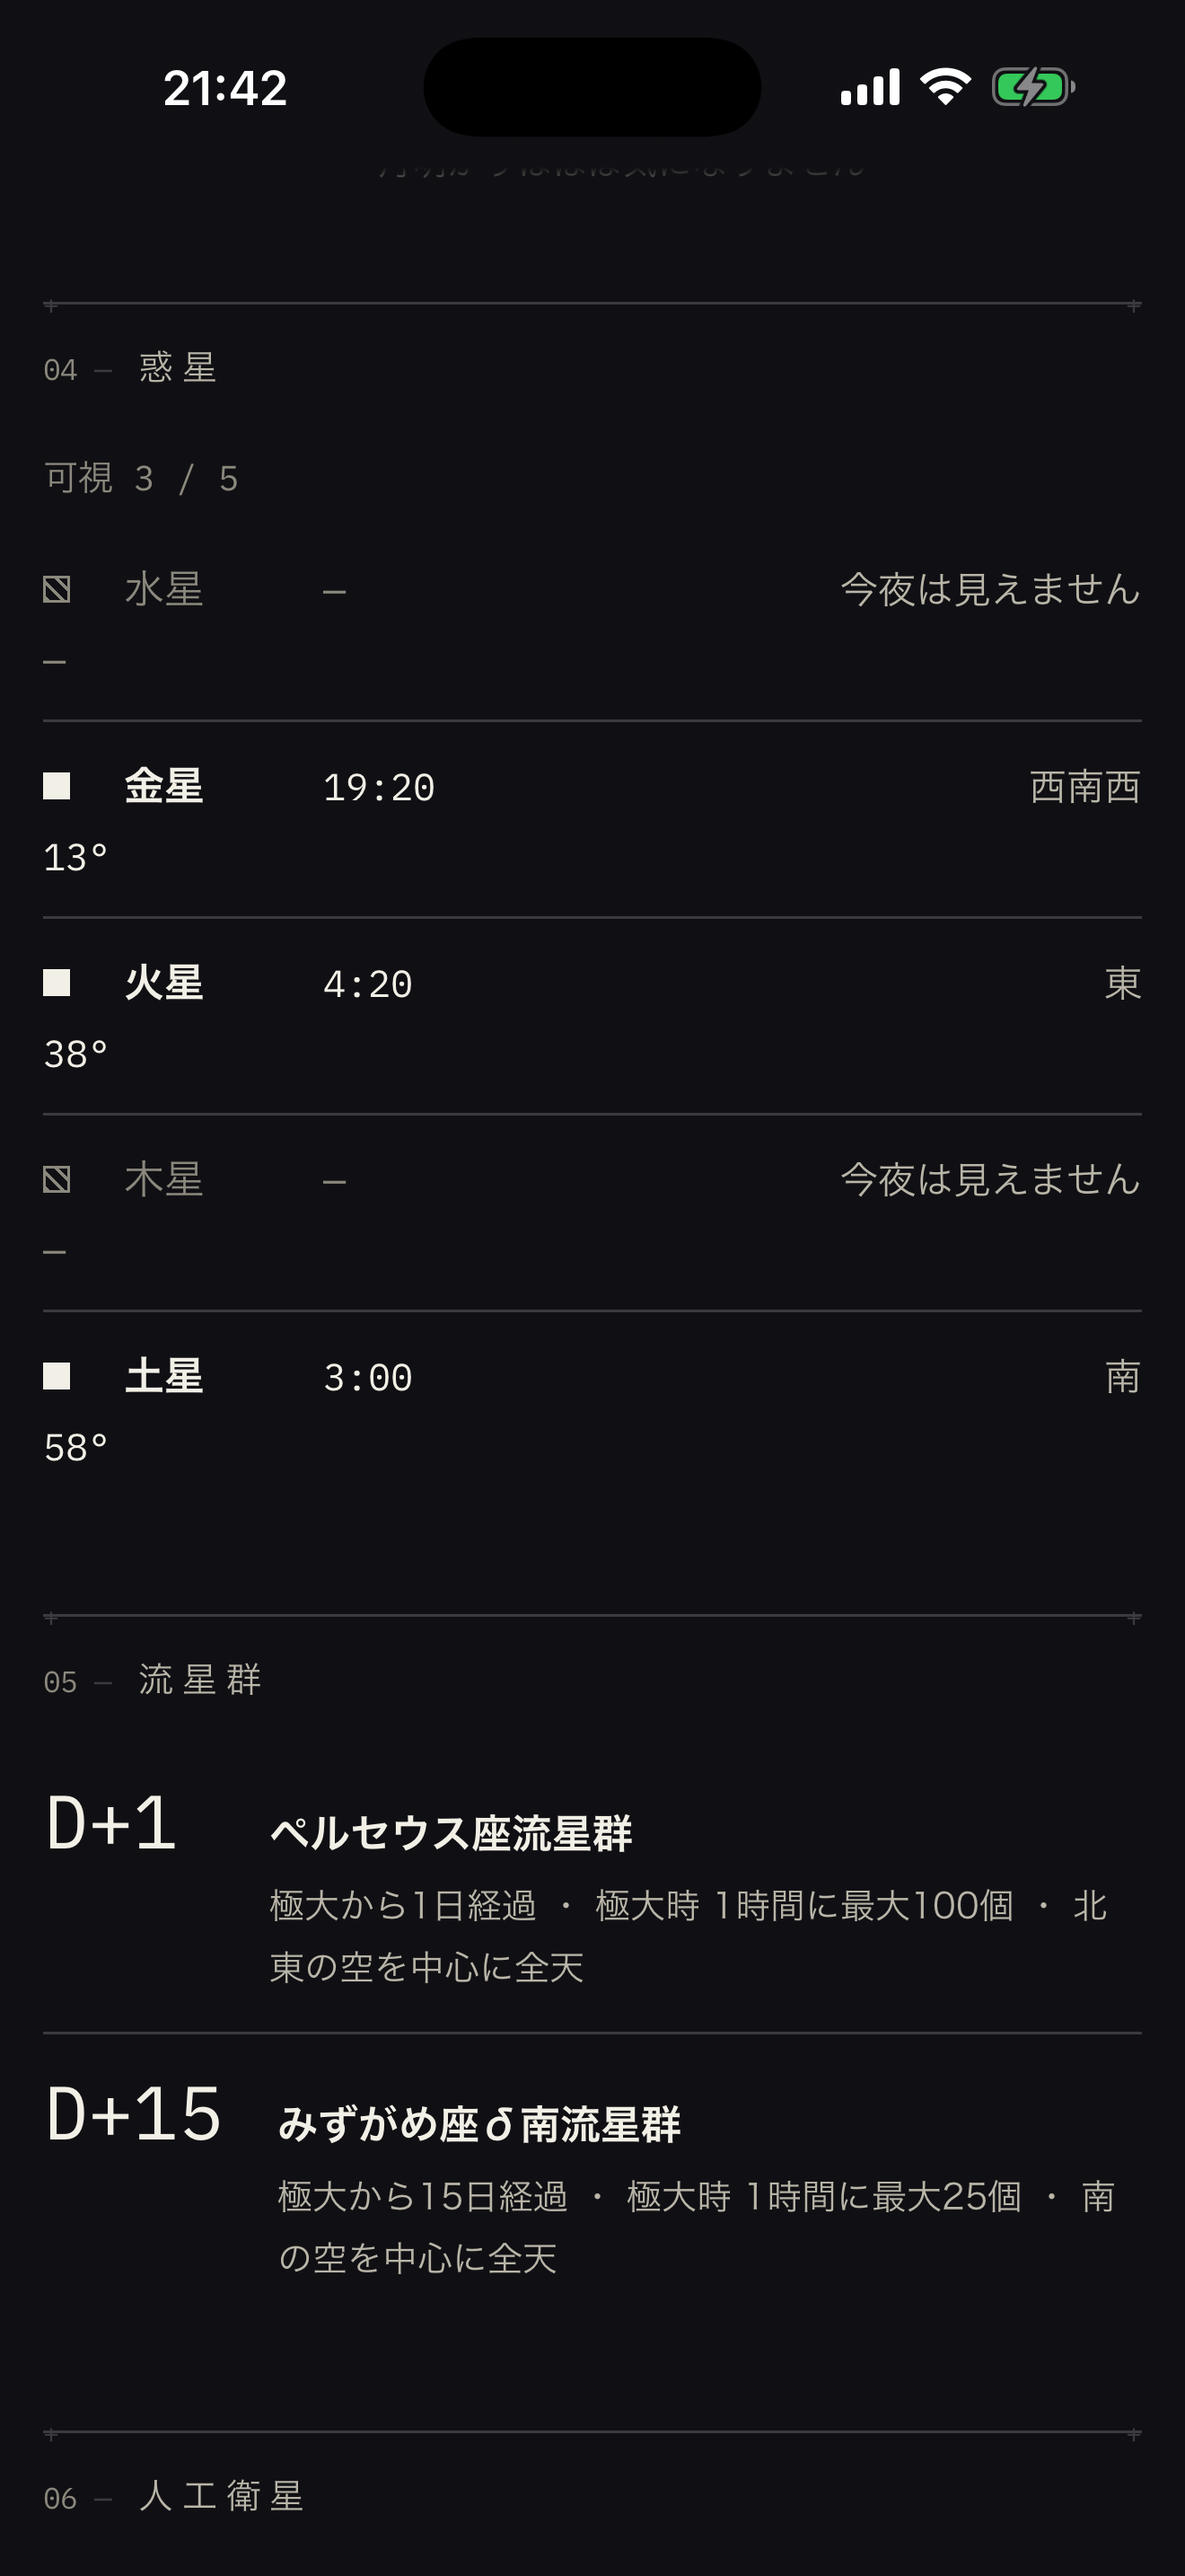
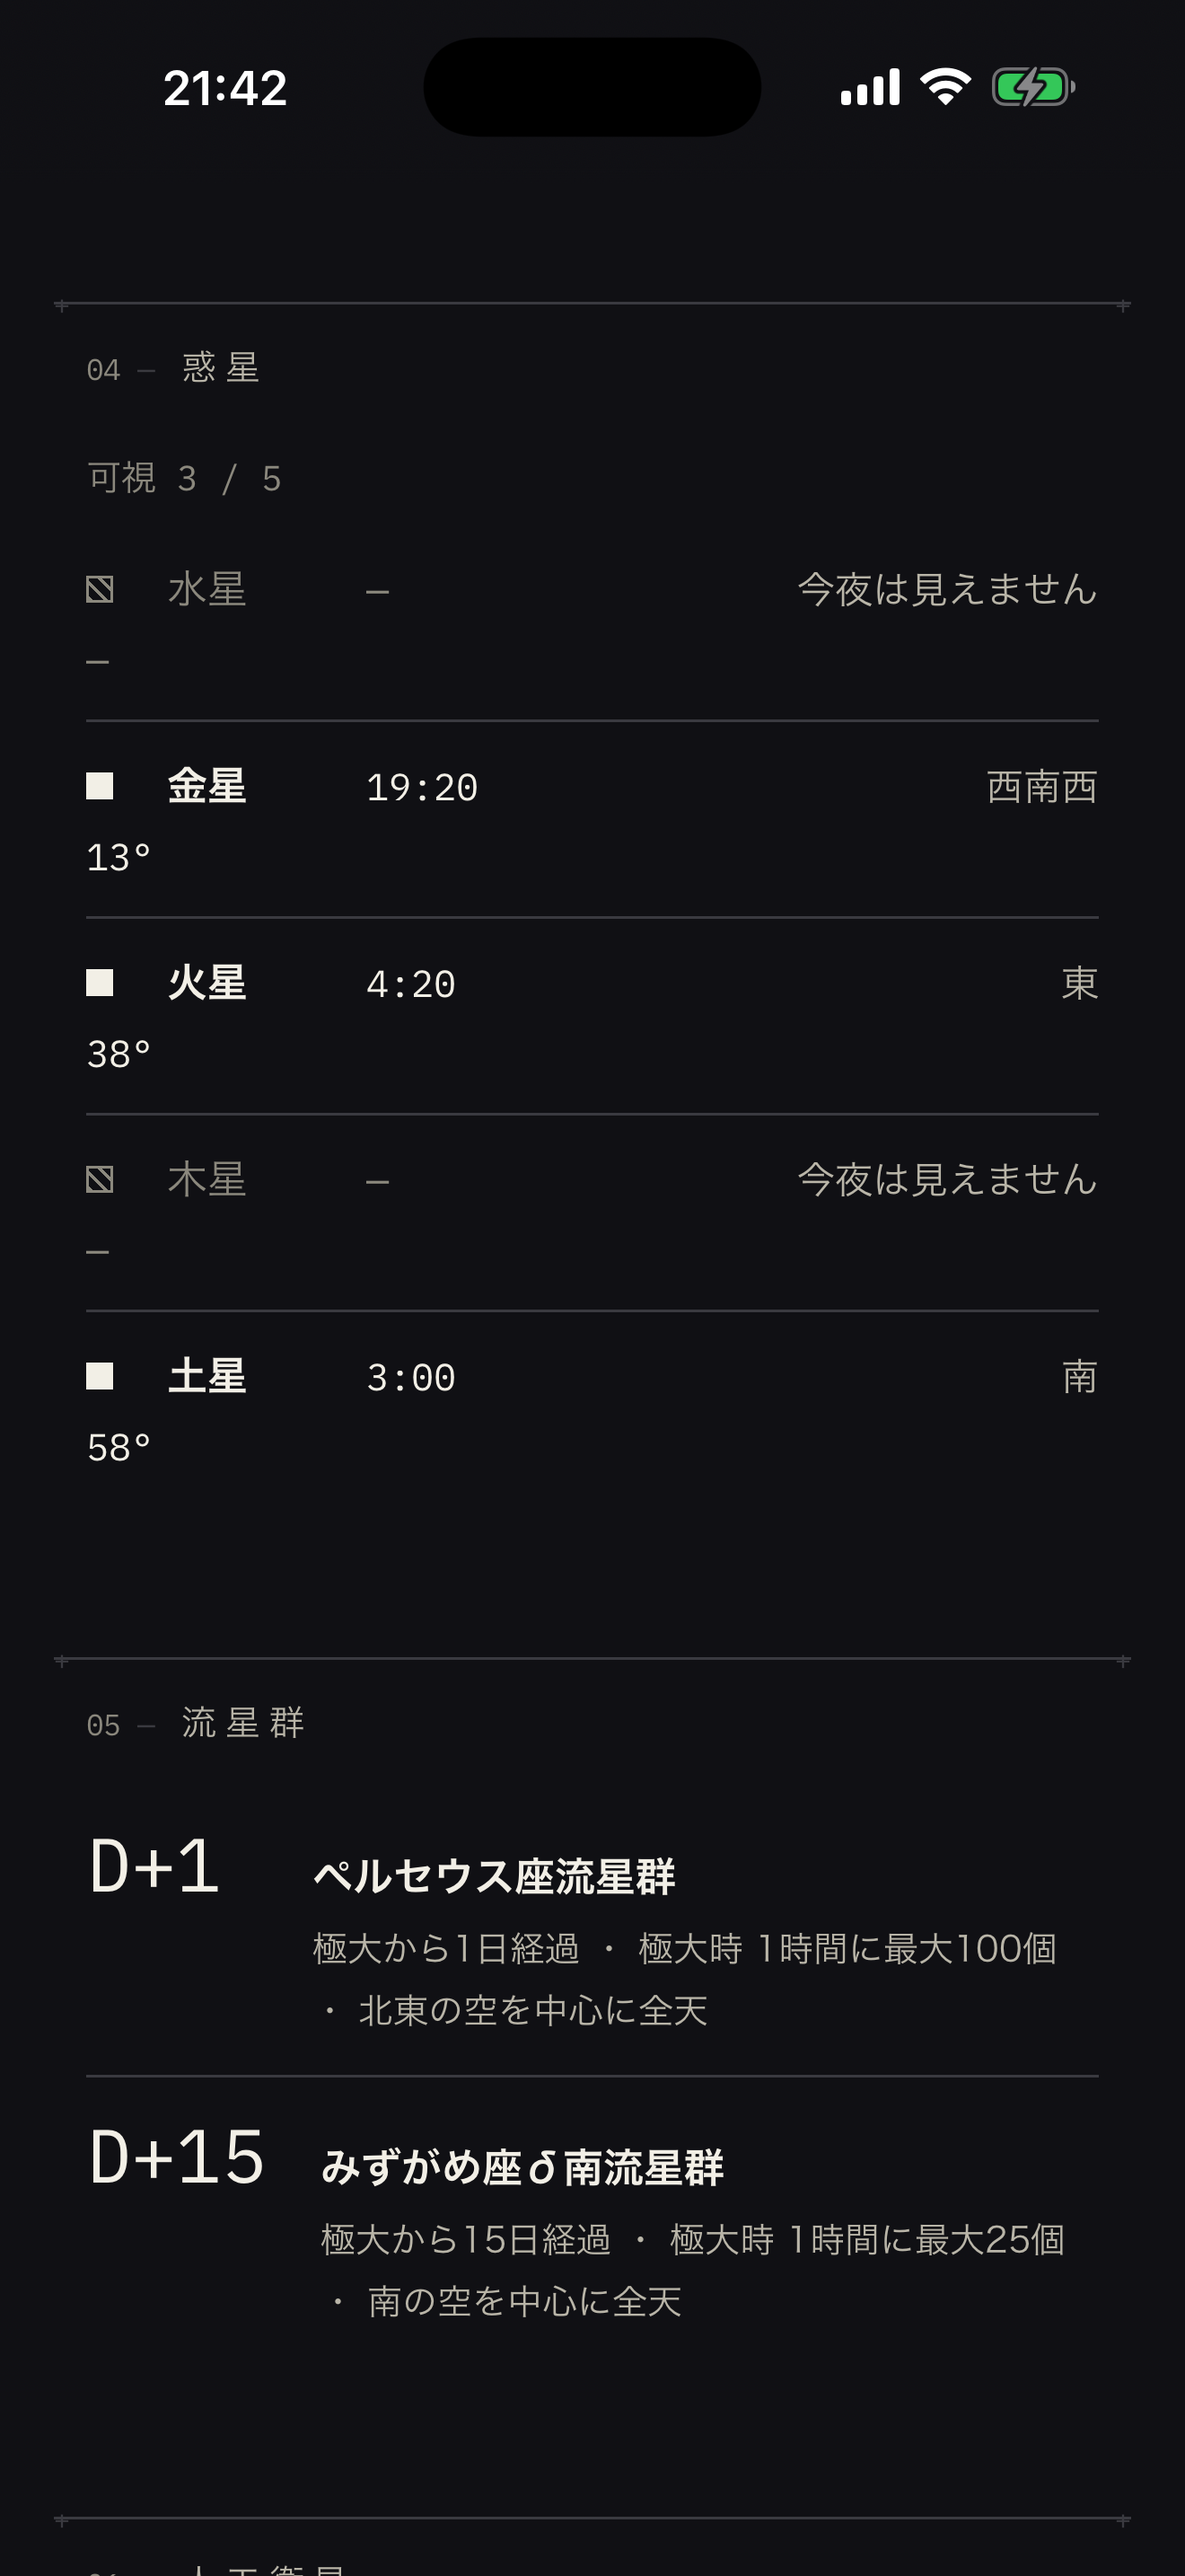
Inset mobile cards and refresh Build 4 assets

diff --git a/src/index.css b/src/index.css
@@ -974,9 +974,18 @@ select.city-select option {
   #root {
     padding:
       max(16px, calc(env(safe-area-inset-top, 0px) + 12px))
-      max(16px, env(safe-area-inset-right))
+      max(20px, calc(env(safe-area-inset-right, 0px) + 8px))
       max(40px, env(safe-area-inset-bottom))
-      max(16px, env(safe-area-inset-left));
+      max(20px, calc(env(safe-area-inset-left, 0px) + 8px));
+  }
+  .masthead,
+  .section,
+  .footer {
+    padding-left: 12px;
+    padding-right: 12px;
+  }
+  .masthead {
+    padding-bottom: 12px;
   }
   .native-toolbar {
     align-items: center;
@@ -991,7 +1000,11 @@ select.city-select option {
     grid-template-columns: 1fr;
     margin-top: 40px;
     padding-top: 12px;
+    padding-bottom: 16px;
     row-gap: 12px;
+  }
+  .footer {
+    padding-bottom: 12px;
   }
   .section-side {
     flex-direction: row;

diff --git a/src/lib/__tests__/nightMap.test.ts b/src/lib/__tests__/nightMap.test.ts
@@ -47,4 +47,14 @@ describe('projectJapanCoordinate', () => {
       expect(point.y).toBeLessThan(JAPAN_MAP_VIEWBOX.height)
     }
   })
+
+  it('大阪ラベルを広島のマーカーと重ならない右下へ配置する', () => {
+    const osaka = NIGHT_MAP_POINTS.find((point) => point.name === '大阪')!
+    const hiroshima = NIGHT_MAP_POINTS.find((point) => point.name === '広島')!
+
+    expect(osaka.labelAnchor).toBe('start')
+    expect(osaka.labelX).toBeGreaterThan(osaka.x)
+    expect(osaka.labelY).toBeGreaterThan(osaka.y)
+    expect(Math.hypot(osaka.labelX - hiroshima.x, osaka.labelY - hiroshima.y)).toBeGreaterThan(70)
+  })
 })

diff --git a/src/lib/nightMap.ts b/src/lib/nightMap.ts
@@ -55,7 +55,8 @@ export const NIGHT_MAP_POINTS: NightMapPoint[] = [
   point('東京', 32, -8),
   point('長野', -31, -8, 'end'),
   point('名古屋', 35, 16),
-  point('大阪', -35, 15, 'end'),
+  // 関西の密集域では左側が広島のマーカーと重なるため、右下へ引き出す。
+  point('大阪', 41, 33),
   point('広島', -33, -17, 'end'),
   point('高知', 31, 21),
   point('福岡', -31, -18, 'end'),

diff --git a/AppStore/Registration-Status.md b/AppStore/Registration-Status.md
@@ -8,7 +8,7 @@
 - Apple ID: 6801428026
 - Bundle ID: jp.tama.yozora
 - SKU: YOZORA-IOS-2026
-- バージョン / ビルド: 1.0 / 3
+- バージョン / ビルド: 1.0 / 4
 - 現在の状態: 提出準備中
 - 価格: 無料
 - 配信地域: 175地域
@@ -28,22 +28,24 @@
 
 ## 検証済み
 
-- Web単体テスト: 53件成功
+- Web単体テスト: 54件成功
 - lint: 成功
 - 本番Webビルド: 成功
 - 昼・夜・極光テーマの主要レイアウト寸法一致を確認
+- モバイルのカード外側余白を20px、カード内側余白を12pxに調整し、横方向のはみ出しがないことを確認
 - iOS最上部の二重マスクを撤去し、safe area基準の余白へ統一
 - モバイル上部ツールバーを一段のコンパクト表示へ修正
+- 全国地図のOsakaラベルをHiroshimaのマーカーと重ならない右下へ移動し、日本語・英語表示で確認
 - iOSシミュレータでビルド、インストール、起動、画面取得
-- 実機「TAMA」（iPhone 16 Pro / iOS 26.6）向けBuild 3 Debugビルド: 成功
-- Build 3の実機インストールと `jp.tama.yozora` の起動: 成功（起動プロセス確認済み）
-- Build 3のRelease archive: 成功
+- 実機「TAMA」（iPhone 16 Pro / iOS 26.6）向けBuild 4 Debugビルド: 成功
+- Build 4の実機インストールと `jp.tama.yozora` の起動: 成功（起動プロセス確認済み）
+- Build 4のRelease archive: 成功
 - Privacy Manifestと暗号化申告キーをアーカイブ内で確認
 - 配布用IPAのApple事前検証: エラー0件
-- Build 3アップロード: 成功（Delivery UUID: 353e45c5-2d63-49e8-88bf-d6f630bd3774）
-- Apple側のBuild 3処理: VALID / APP_STORE_ELIGIBLE
-- バージョン1.0にBuild 3を選択済み
-- 上部描画修正版の6.9インチ用スクリーンショット5枚を再作成・差し替え済み
+- Build 4アップロード: 成功（Delivery UUID: c75e0849-a83e-4449-9891-ad926b256251）
+- Apple側のBuild 4処理: VALID / APP_STORE_ELIGIBLE
+- バージョン1.0にBuild 4を選択済み
+- 上部描画・カード余白・Osakaラベル修正版の6.9インチ用スクリーンショット5枚を再作成・差し替え済み
 - スクリーンショット順序: ホーム、時間別、惑星、全国地図、観測一覧
 - 新しい実写スノードームアイコンがBuild情報に反映済み
 - 無料価格（各地域0.00）と175地域の配信可能状態を画面で再確認
